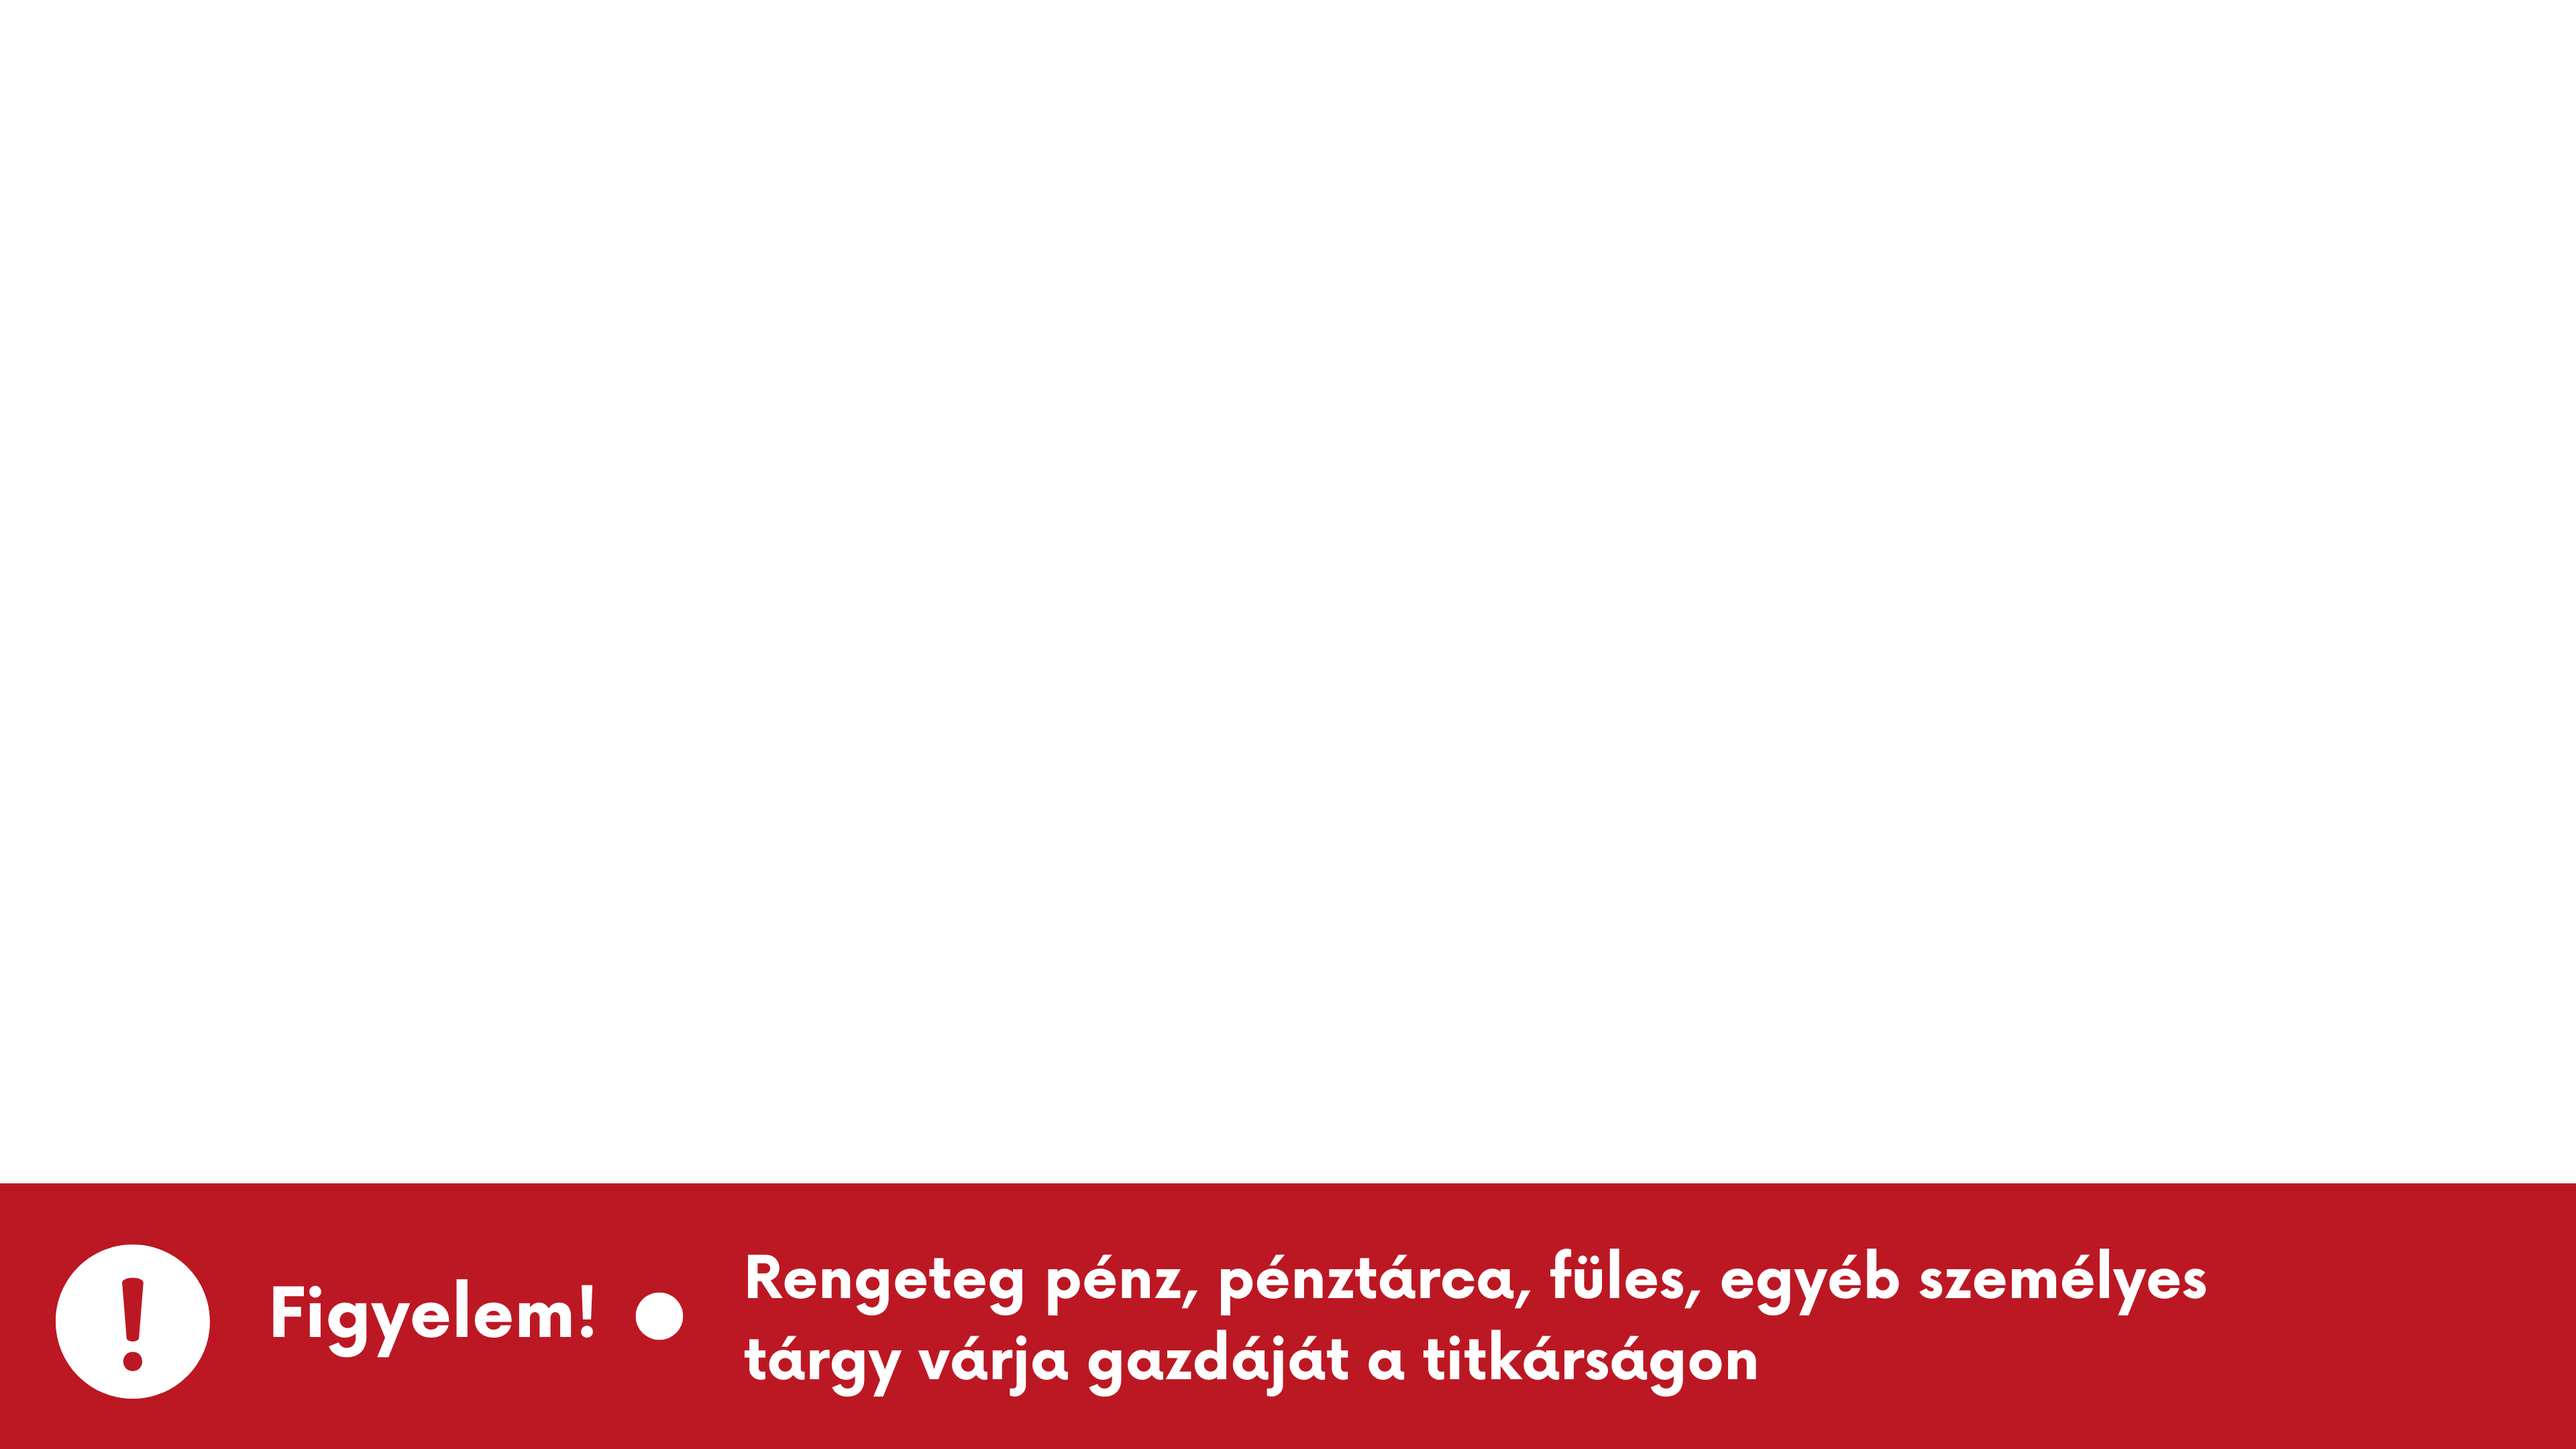
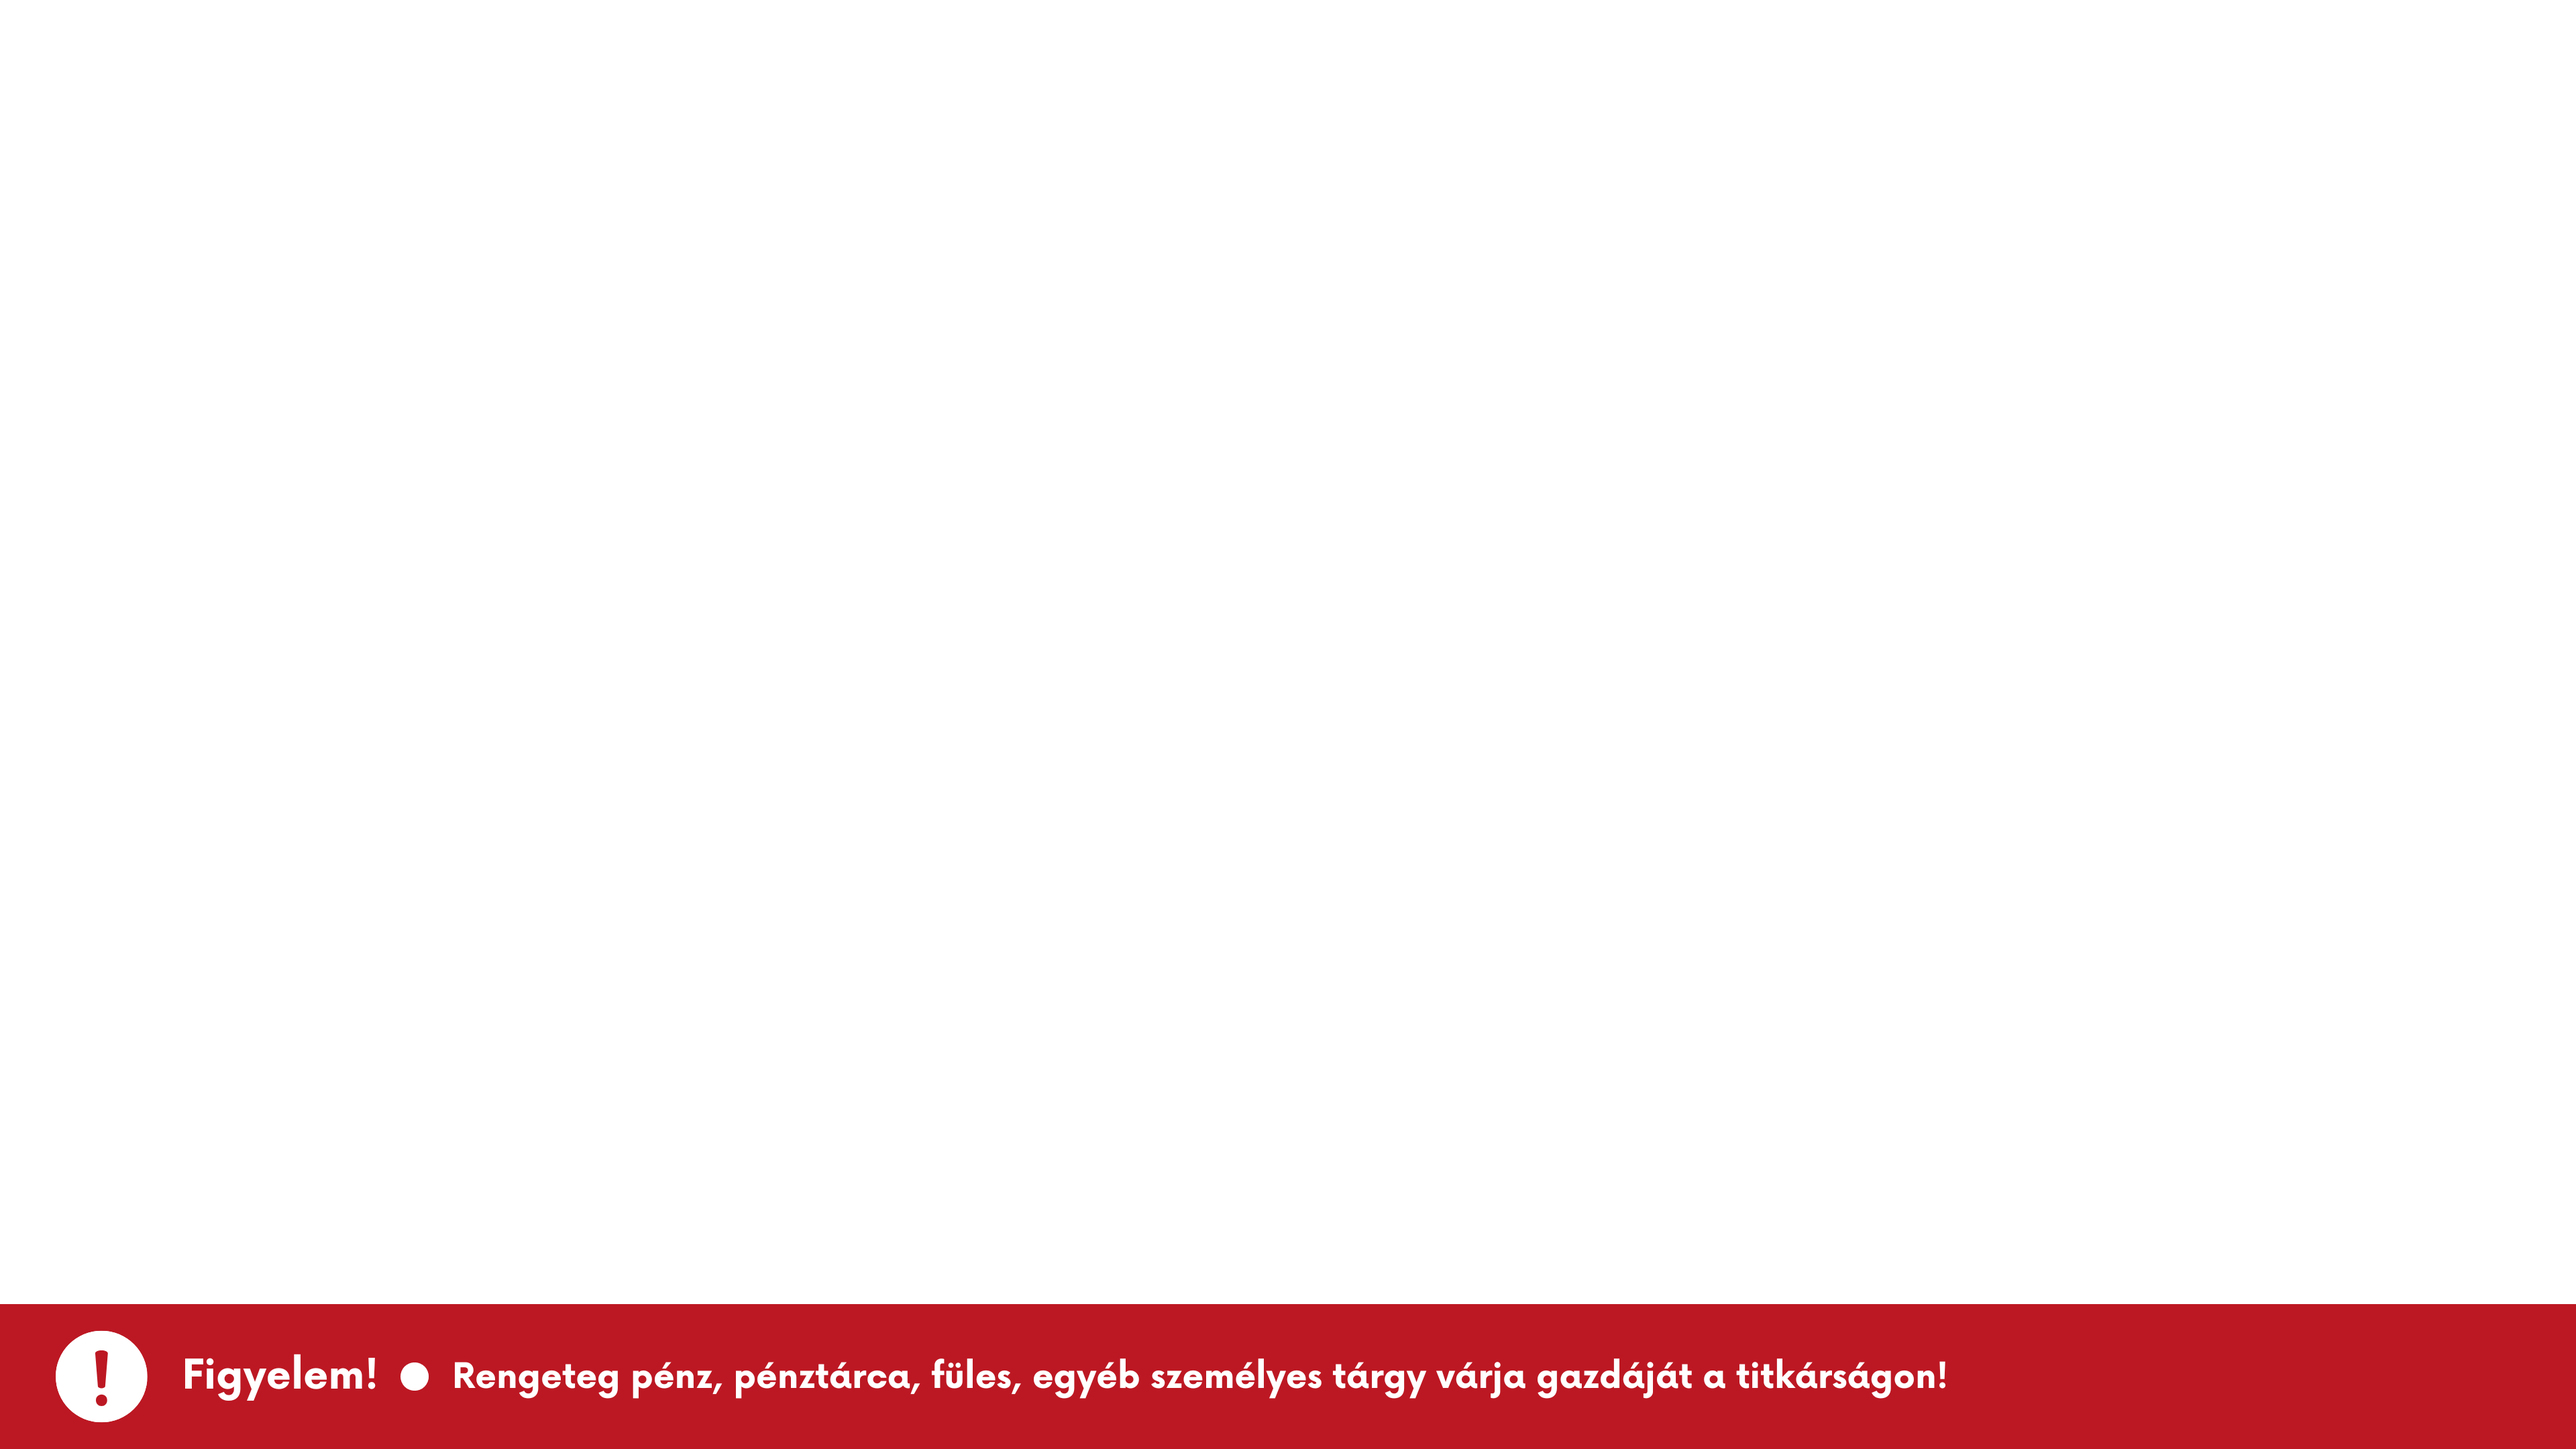
tt jav

Changed region(s): [[0.0, 0.8065, 1.0, 0.9926]]

diff --git a/index.html b/index.html
@@ -732,7 +732,7 @@ refreshAt(16,00,56);
             alertImage.src = 'https://infotv.tmskoncz.hu/img/szag.png';
             overlay.style.display = 'flex';
           } else if (status === 'ALERT') {
-            alertImage.src = 'https://infotv.tmskoncz.hu/img/talalttargycsik.png';
+            alertImage.src = 'https://infotv.tmskoncz.hu/img/talalttargycsik2.png';
             overlay.style.display = 'flex';
           } else if (status === 'HAZA3') {
             alertImage.src = 'https://infotv.tmskoncz.hu/img/haza3.png';
